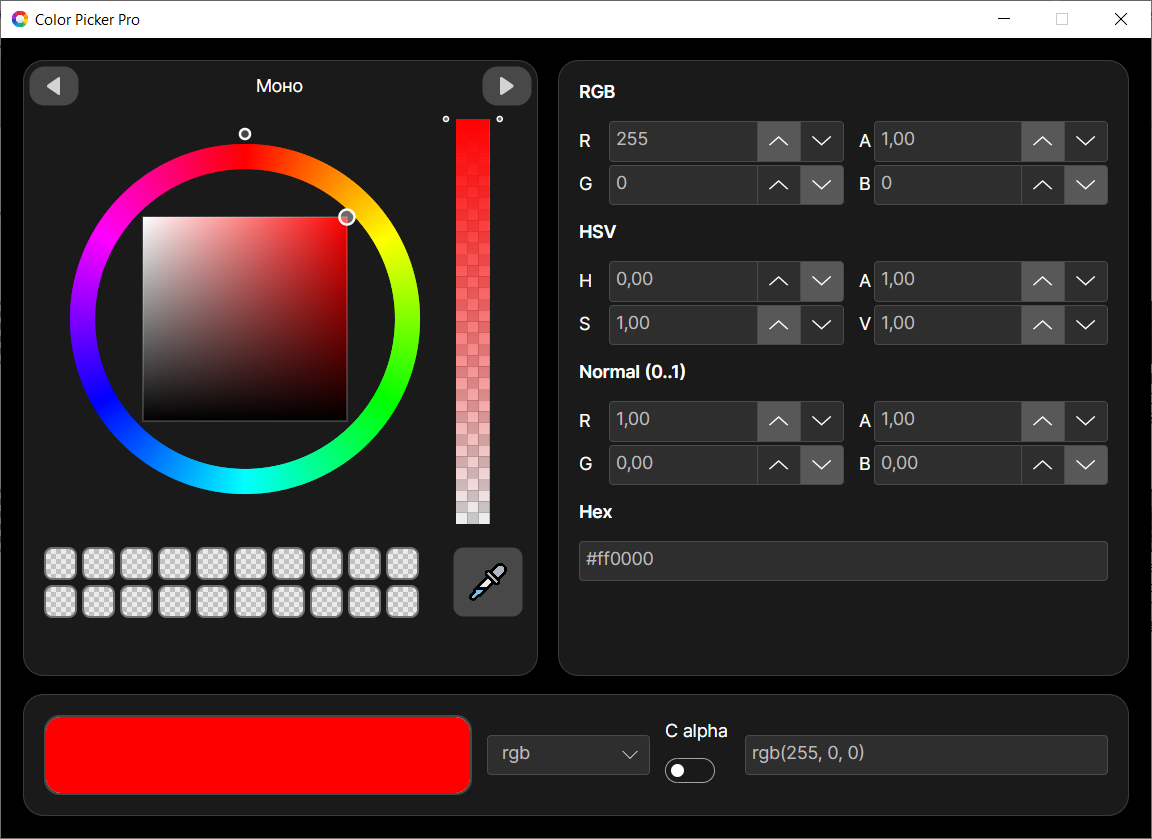
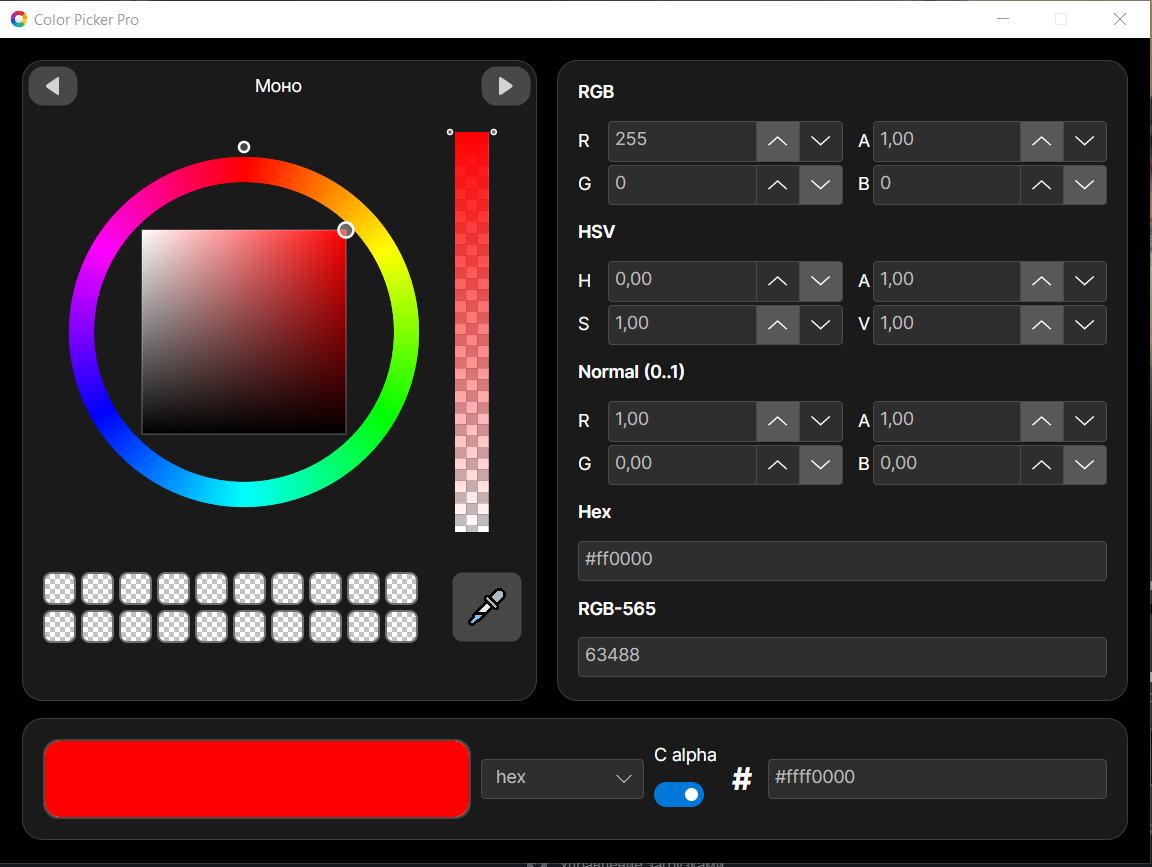
Update README and setup script

diff --git a/README.md b/README.md
@@ -57,6 +57,7 @@
 | **HSV**          | `0, 100%, 100%`                   |
 | **Normal (0..1)**| `1.00, 0.00, 0.00`                |
 | **Hex**          | `#ff0000`                         |
+| **RGB-565**      | `63488`                           |
 
 Настройте желаемый формат в меню – копирование будет происходить по одной кнопке.
 
